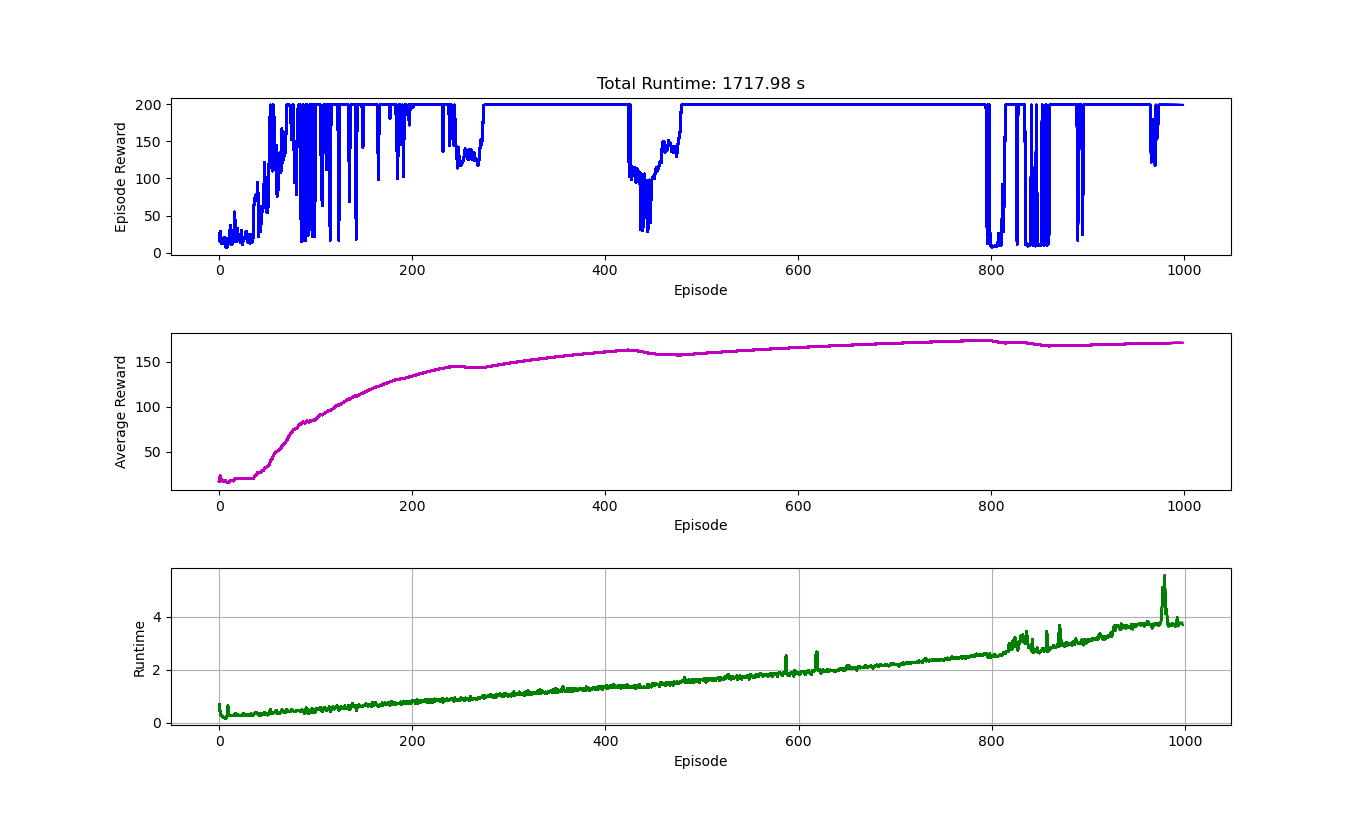
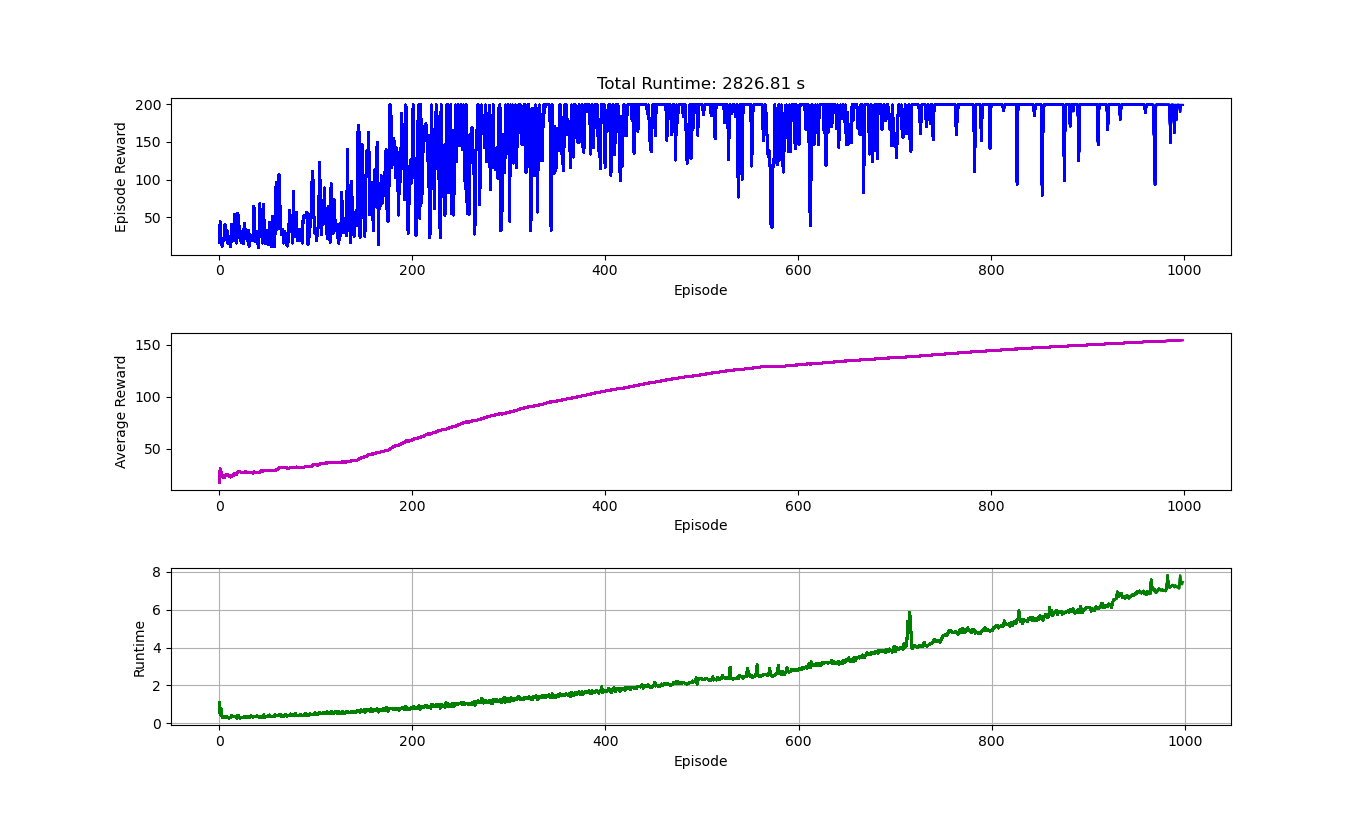
A2C New Plot Generated

diff --git a/a2c/a2c_test.py b/a2c/a2c_test.py
@@ -7,7 +7,7 @@ import matplotlib.pyplot as plt
 env = gym.make("CartPole-v0")
 # obs_dim = env.observation_space.shape[0]
 # action_dim = env.action_space.n
-MAX_EPISODE = 50
+MAX_EPISODE = 1000
 MAX_STEPS = 200
 
 lr = 1e-3
